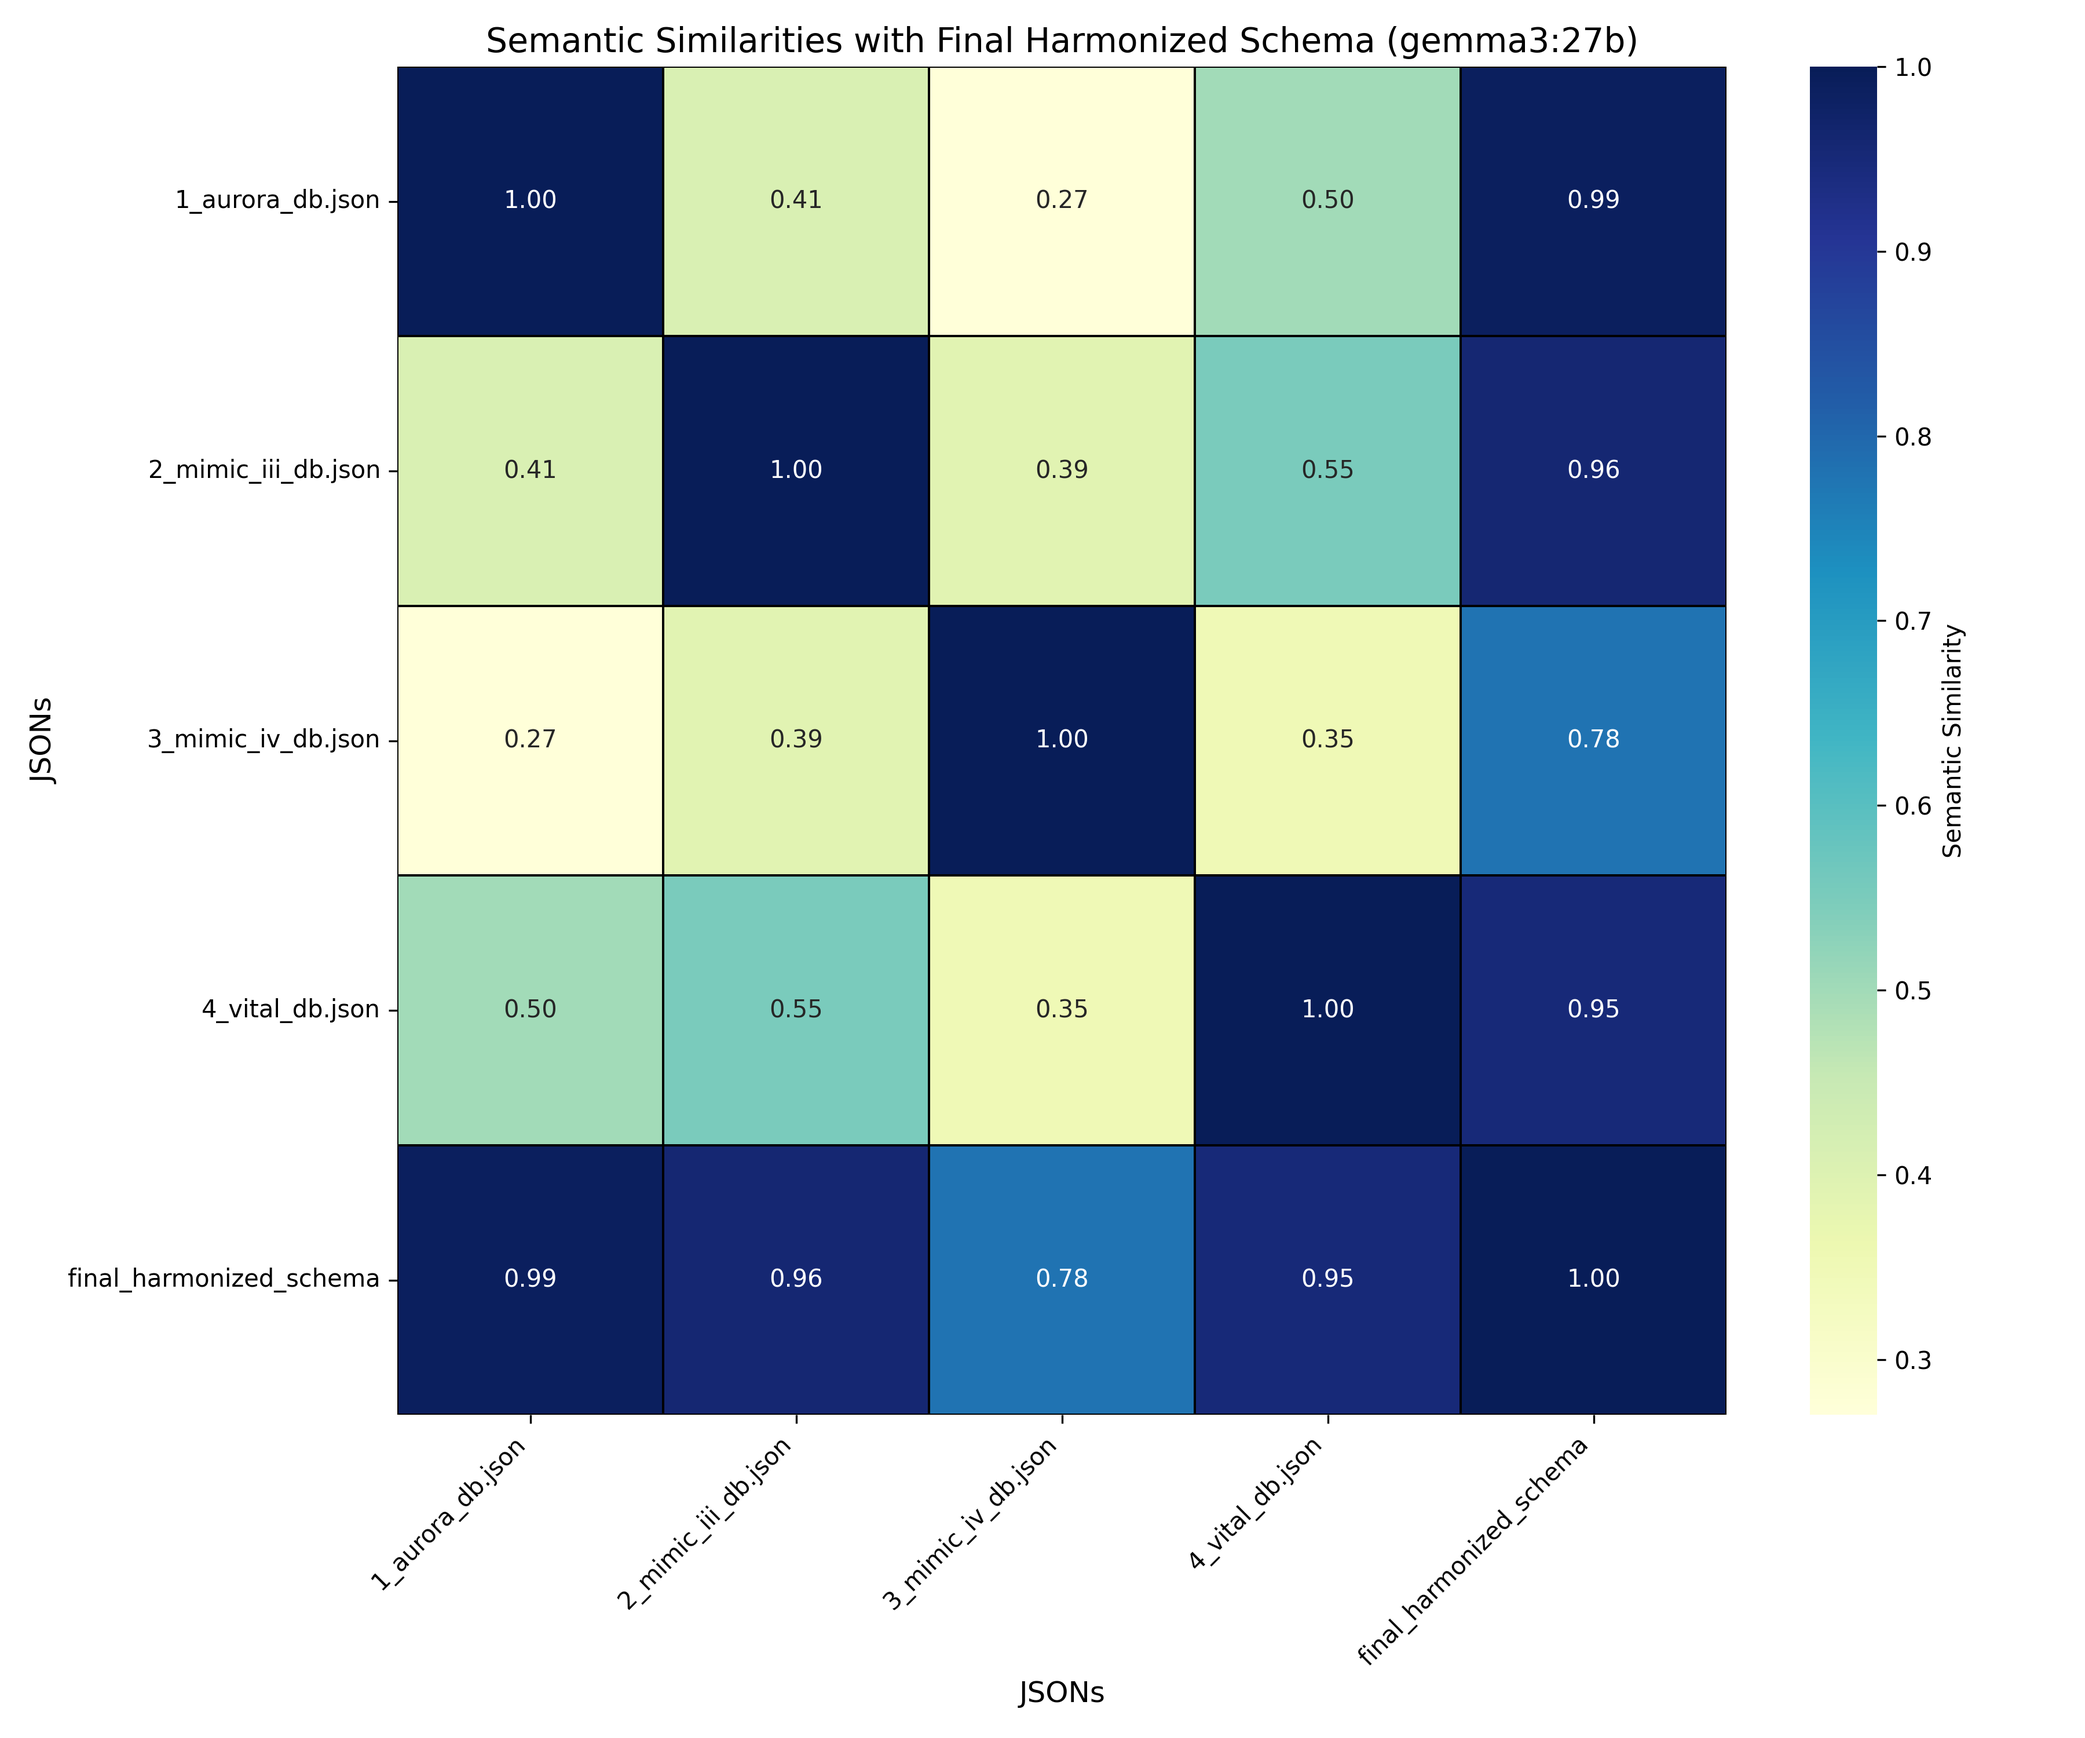
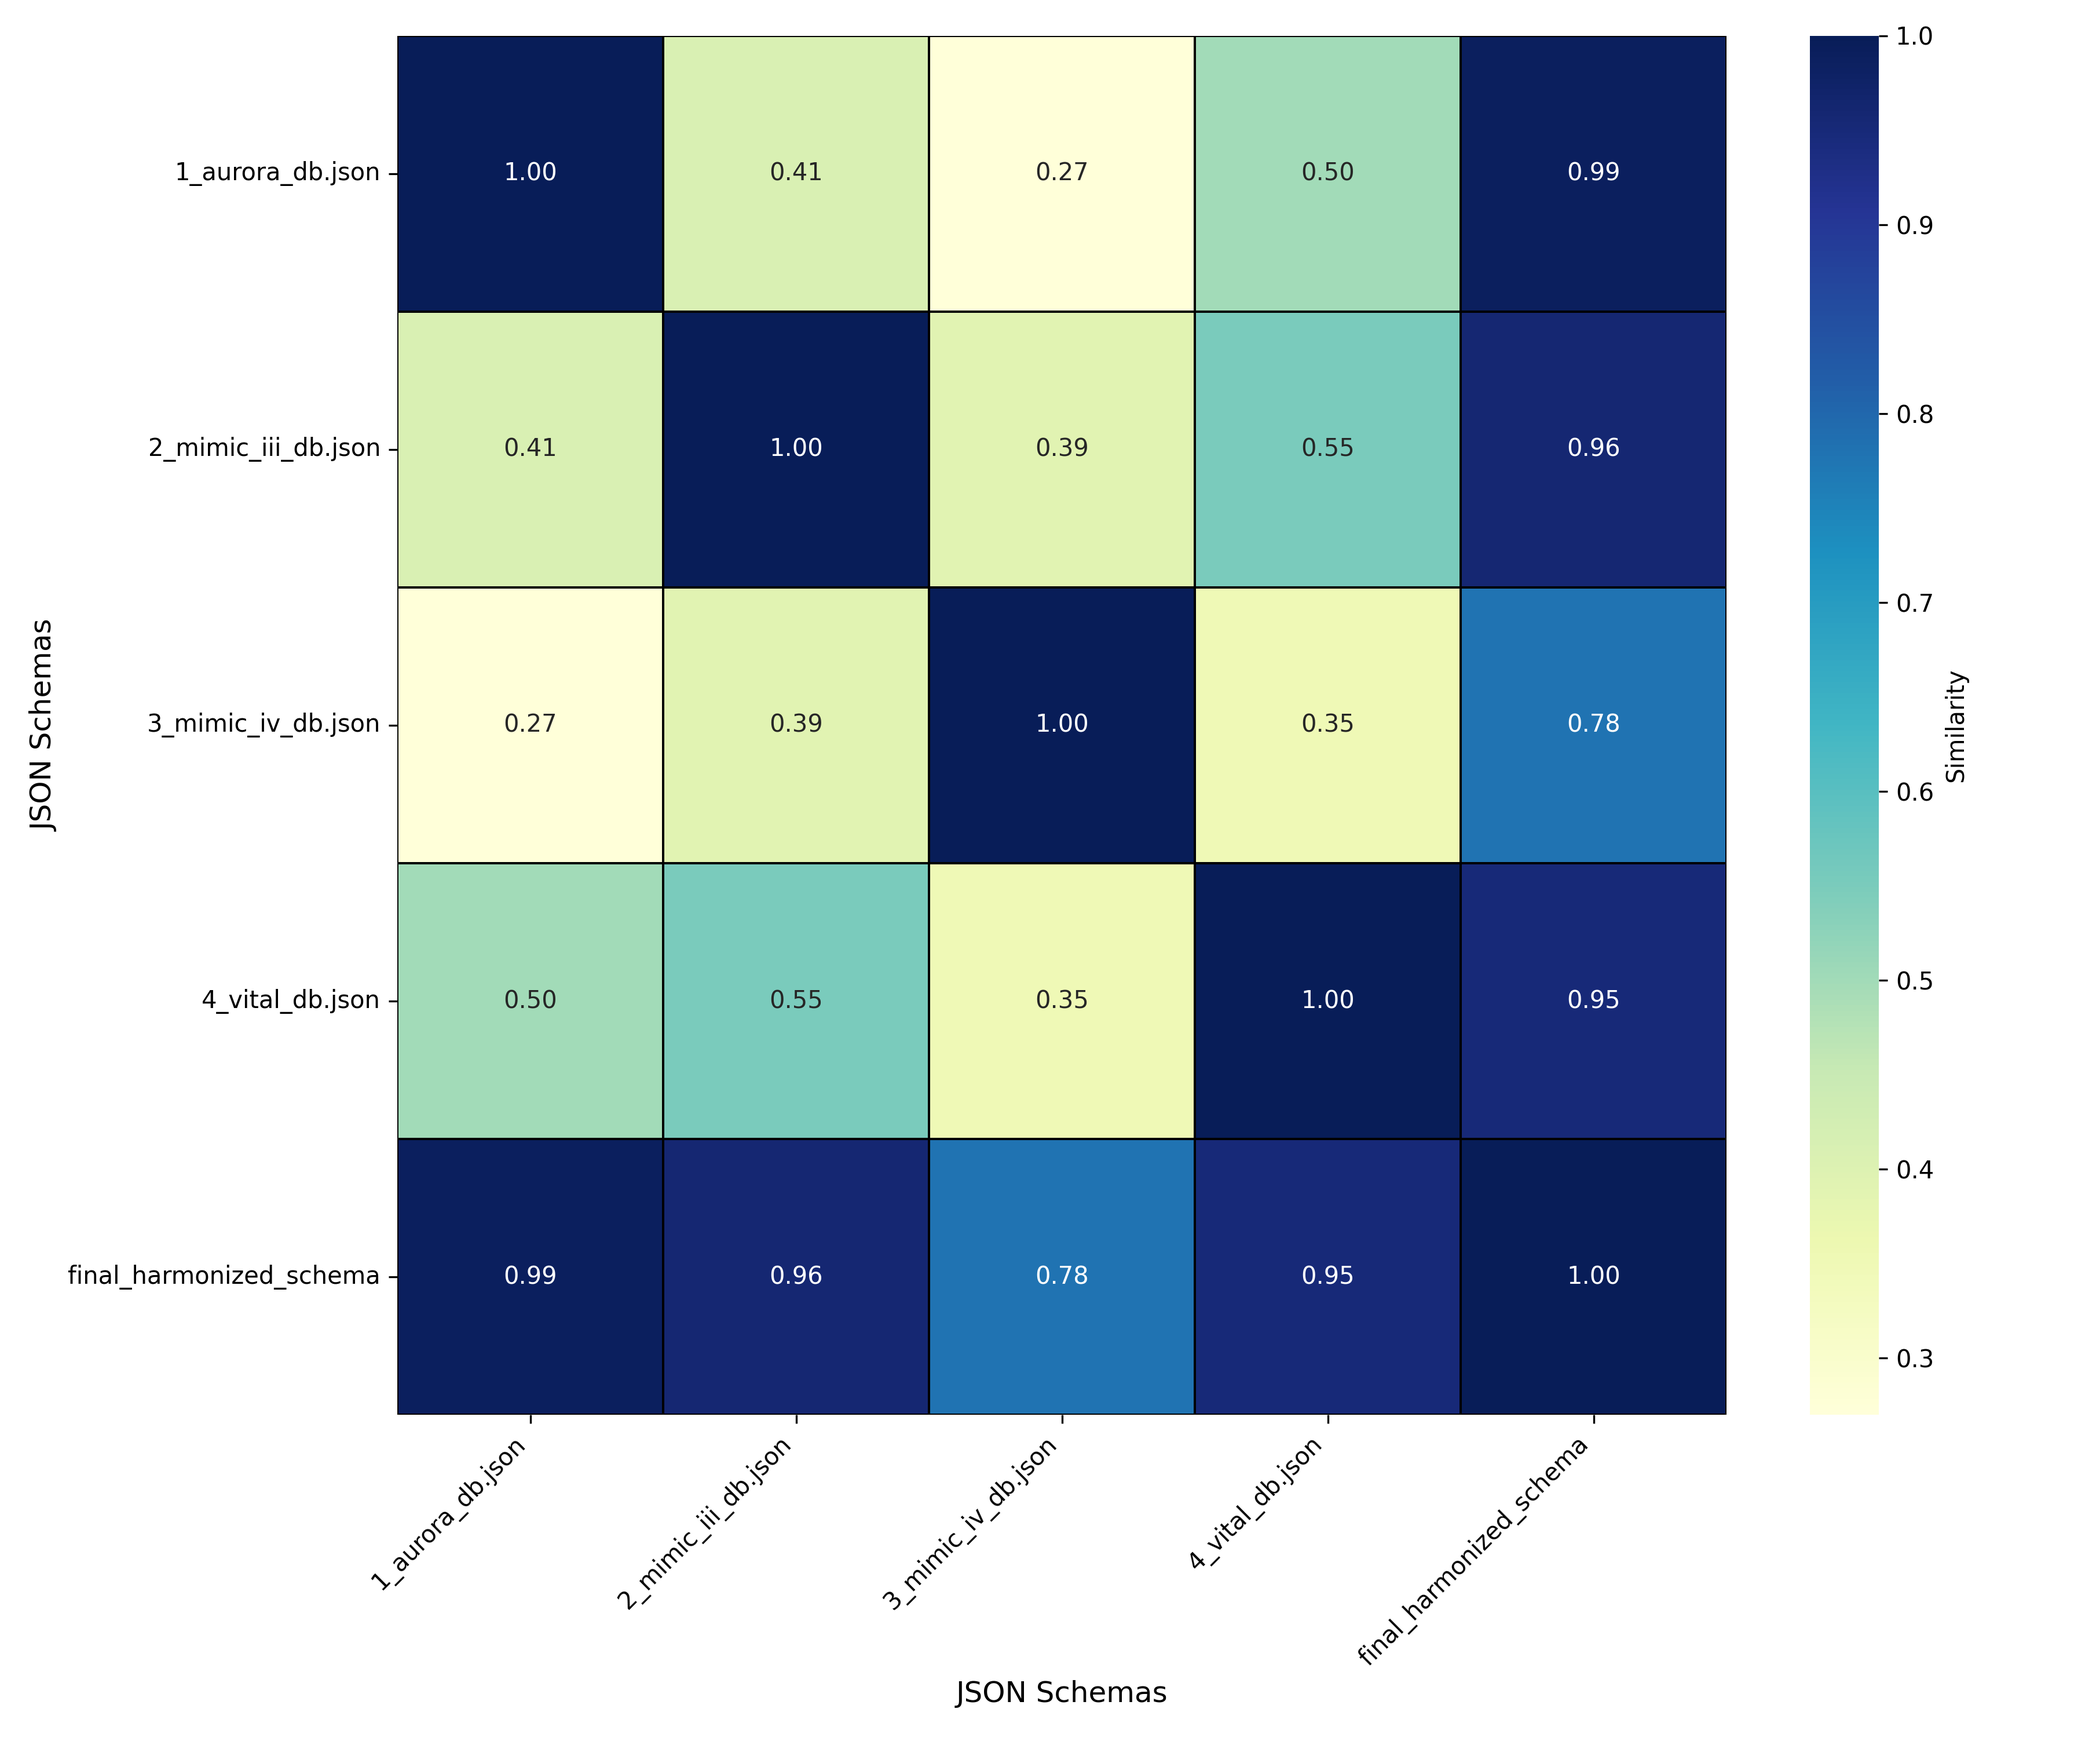
Images refactor (labels consitent with paper terminology)

diff --git a/results/data_visualization.py b/results/data_visualization.py
@@ -264,11 +264,11 @@ def plot_similarity_heatmaps(csv_paths, similarity_type, save_path='./', output_
                 fmt=".2f",
                 linewidths=.5,
                 linecolor='black',
-                cbar_kws={'label': f'{similarity_type.capitalize()} Similarity'}
+                cbar_kws={'label': 'Similarity'}
             )
-            plt.title(f'{similarity_type.capitalize()} Similarities with Final Harmonized Schema ({llm_name})', fontsize=14)
-            plt.xlabel('JSONs', fontsize=12)
-            plt.ylabel('JSONs', fontsize=12)
+            #plt.title(f'{similarity_type.capitalize()} Similarities with Final Harmonized Schema ({llm_name})', fontsize=14)
+            plt.xlabel('JSON Schemas', fontsize=12)
+            plt.ylabel('JSON Schemas', fontsize=12)
             plt.xticks(rotation=45, ha='right')
             plt.yticks(rotation=0)
             plt.tight_layout()
